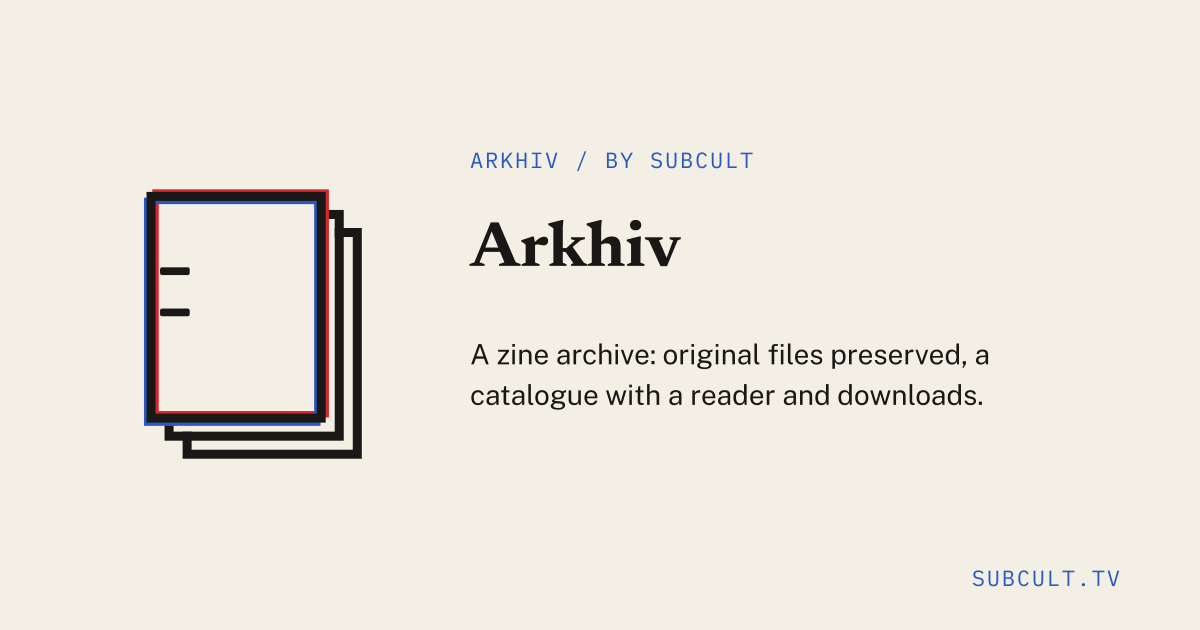
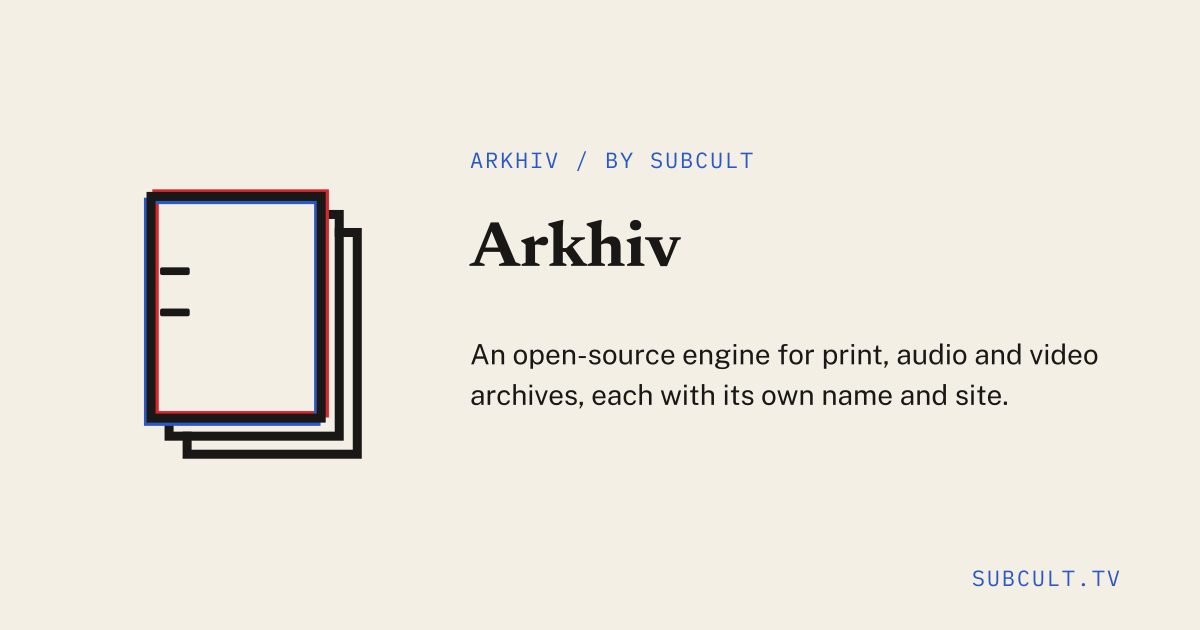
Use the Studio link preview with the corrected description
The pack's product/og.png no longer calls Arkhiv a zine archive. The image
and its alt text now match studio/brands/arkhiv (subcult-tv branch
t3code/arkhiv-diagram-website, rebuilt with site_packs.py).

Changed region(s): [[0.4008, 0.5429, 0.925, 0.6635]]

diff --git a/site/public/index.html b/site/public/index.html
@@ -23,12 +23,12 @@
 <meta property="og:image" content="https://arkhiv.subcult.tv/og.png">
 <meta property="og:image:width" content="1200">
 <meta property="og:image:height" content="630">
-<meta property="og:image:alt" content="The Arkhiv mark: three stacked sheets with the top sheet misregistered in red and blue, beside the label ARKHIV / BY SUBCULT and the name Arkhiv.">
+<meta property="og:image:alt" content="The Arkhiv mark at the left, the label ARKHIV / BY SUBCULT, the name Arkhiv, the line: An open-source engine for print, audio and video archives, each with its own name and site. Bottom right: SUBCULT.TV.">
 <meta name="twitter:card" content="summary_large_image">
 <meta name="twitter:title" content="Arkhiv — the open-source engine behind seven archives">
 <meta name="twitter:description" content="Arkhiv is an open-source engine for print, audio and video archives. It keeps the original files, source metadata, review decisions and playback schedules. Each site built on it has its own name, design and domain.">
 <meta name="twitter:image" content="https://arkhiv.subcult.tv/og.png">
-<meta name="twitter:image:alt" content="The Arkhiv mark: three stacked sheets with the top sheet misregistered in red and blue, beside the label ARKHIV / BY SUBCULT and the name Arkhiv.">
+<meta name="twitter:image:alt" content="The Arkhiv mark at the left, the label ARKHIV / BY SUBCULT, the name Arkhiv, the line: An open-source engine for print, audio and video archives, each with its own name and site. Bottom right: SUBCULT.TV.">
 </head>
 <body>
 <a class="skip" href="#archives">Skip to the archives</a>

diff --git a/site/README.md b/site/README.md
@@ -7,6 +7,7 @@ website rules are in Studio (`studio/brands/arkhiv/WEBSITE.md`).
 
 - `public/` is copied as-is into the image. There is no build step and no
   JavaScript; light and dark follow the visitor's system setting.
+- `og.png` is the Studio pack's `product/og.png` (subcult-tv `studio/brands/arkhiv`); replace it from there, never by hand.
 - Fonts are the Studio pack's Newsreader 700, Public Sans 400/700 and IBM Plex
   Mono 400, with their OFL licences beside them.
 - Facts in the copy come from this repository and each archive's own
